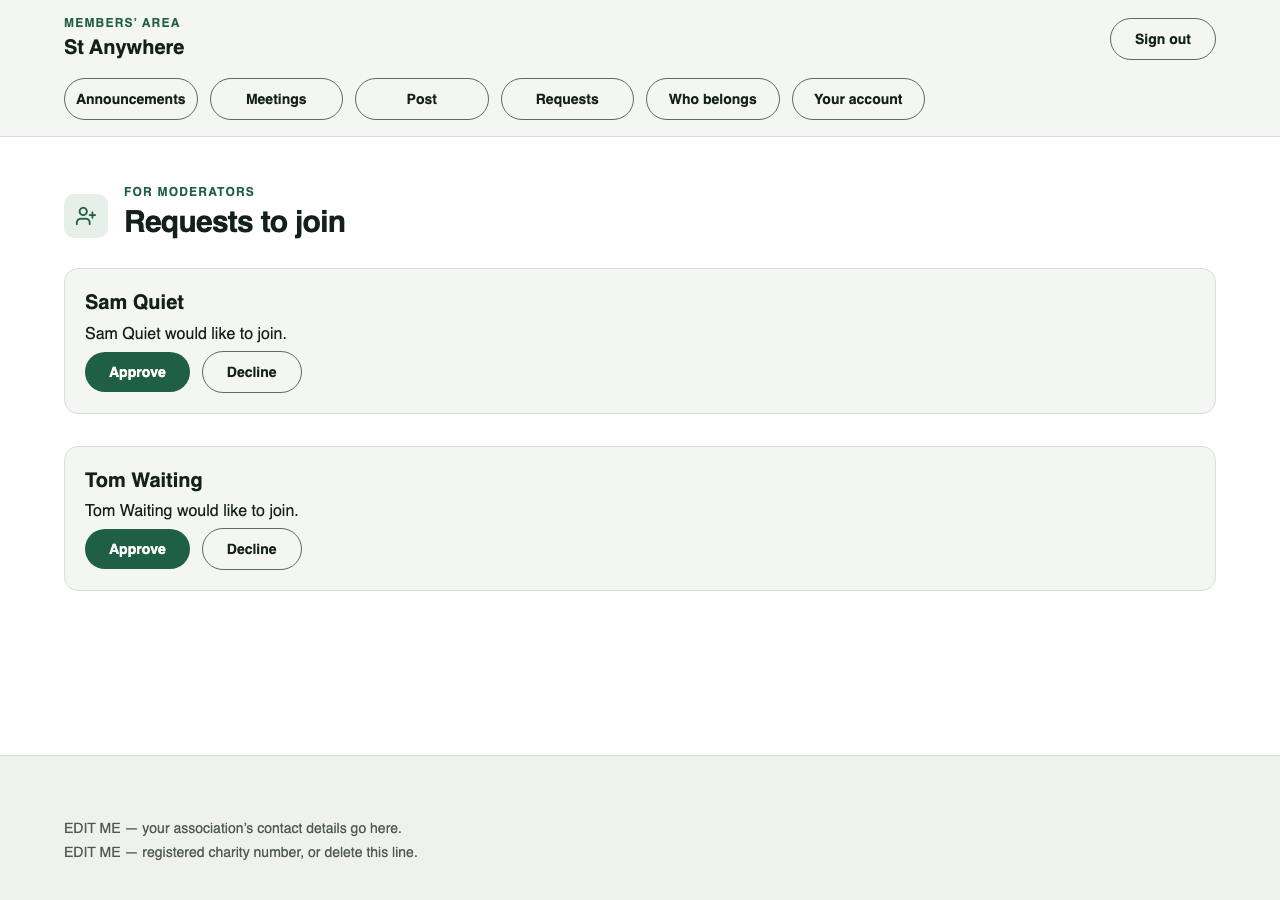
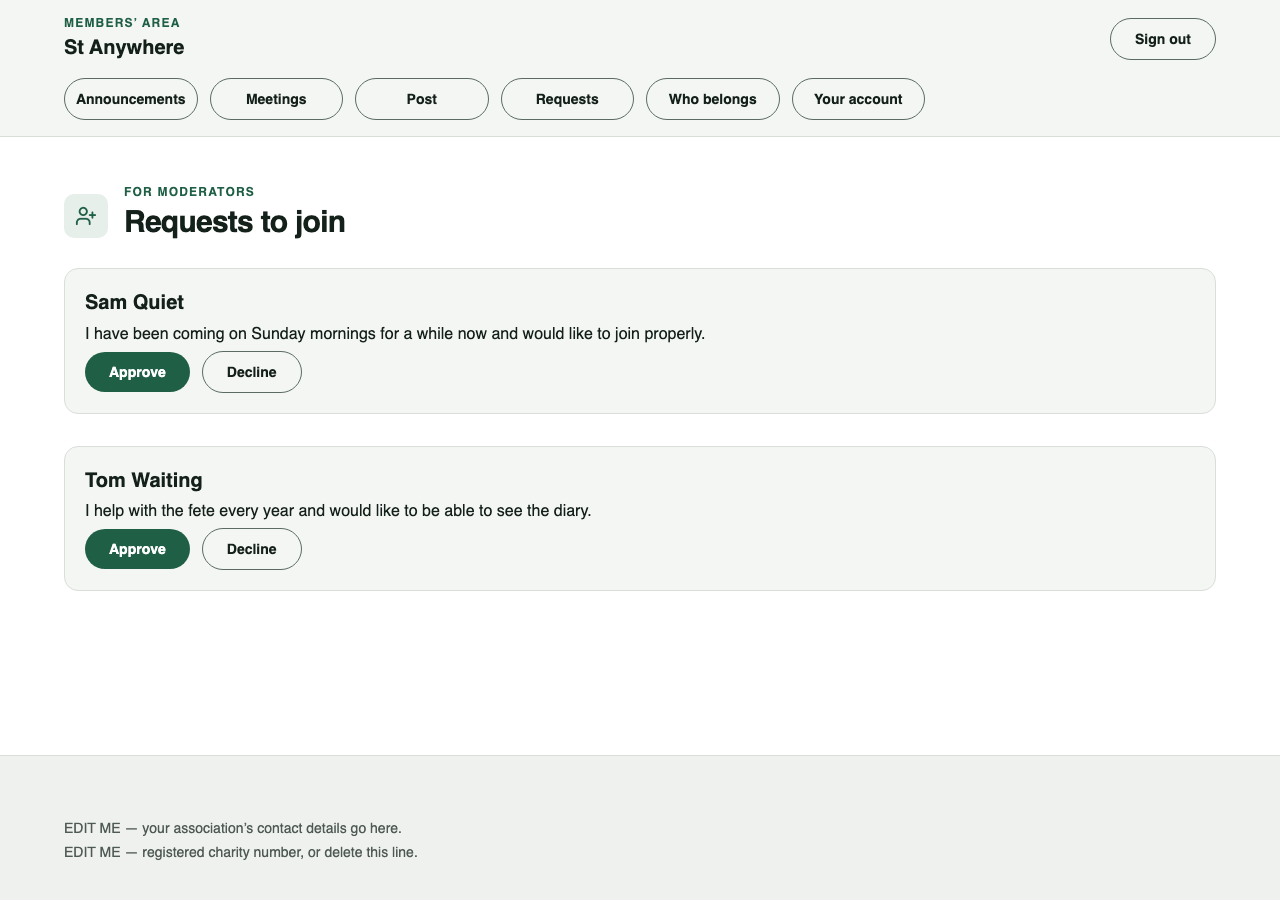
feat(p82): REL-002c s14 — the phone column read, and the defect that was the harness's
Row 6 had three things left on it. Two are now done and the third cannot be
done by a session.

THE PHONE COLUMN. All fifteen phone renders opened (15 covers the 13 pages;
`/` and `/members` are shot in both states). Nothing is broken at 390: the
three caps this row added are correct no-ops below their breakpoints, and
`/directory` folds to one column with s8's `ada@example.invali / d` break gone.
`/join` was graded at all four widths and its apparent finding is a NON-finding
— its footer sits on 1200 while hero and form sit on 720, but `/sign-in` does
the same, so it is consistent across the door pages and is the shape already
ruled acceptable. Priced, so it is not rediscovered a fifth time.

THE ONE REAL FINDING WAS OURS, NOT THE PRODUCT'S. `/requests` rendered the
applicant's name as the card heading and again as their own words, at every
width, because this harness posted `message: `${name} would like to join.``
— inventing the applicant's reason out of their name. `RequestRow` is right to
bind `name` and `message` separately; the whole point of the queue is that a
moderator reads why somebody is asking. `JOINERS` now carries real reasons of
deliberately differing lengths. This is the known seed trap running backwards:
hazard 10 records a seed HIDING a fix, this one MANUFACTURED a defect on a page
that was about to be graded by a person.

CONTROL. The living arm was re-run and diffed against the preserved s13 shots:
[…]

Changed region(s): [[0.0625, 0.3422, 0.5312, 0.4044], [0.0625, 0.56, 0.4688, 0.5911]]

diff --git a/packages/nodegx-backend/tests/vib001-members.look.ts b/packages/nodegx-backend/tests/vib001-members.look.ts
@@ -69,12 +69,30 @@ const MEETINGS = [
   ['Fabric committee', '2099-02-19', 'The hall'],
   ['Annual meeting', '2099-03-30', 'The church']
 ];
+/**
+ * 🔴 **The third column is the REASON THEY TYPED, and it exists because the seed
+ * was manufacturing a defect the product does not have.** Until session 14 this
+ * was a pair and the request was posted with `message: `${name} would like to
+ * join.``, so `/requests` rendered the applicant's name as the heading and then
+ * again as their own words — *"Sam Quiet"* over *"Sam Quiet would like to
+ * join."*. `RequestRow` binds those two texts to `name` and `message`, and it is
+ * right to: the whole point of the queue is that a moderator reads why somebody
+ * is asking. **The duplication was the harness's, at every one of the four
+ * widths, on a page that was about to be graded by a person.**
+ *
+ * ⚠ **A seed can make a page look WORSE than it is, not only better.** The
+ * known trap in this file is the inverse — every `ANNOUNCEMENTS` body is one
+ * short sentence, so no render it takes can show a paragraph wrapping. Both are
+ * the same mistake: **content invented to fill a field, then photographed as if
+ * it came from a person.** The lengths below deliberately differ, so the row is
+ * photographed carrying a real range rather than one tidy line.
+ */
 const JOINERS = [
-  ['Mo Joiner', 'mo@example.invalid'],
-  ['Pat Pending', 'pat@example.invalid'],
-  ['Ada Newcomer', 'ada@example.invalid'],
-  ['Sam Quiet', 'sam@example.invalid'],
-  ['Tom Waiting', 'tom@example.invalid']
+  ['Mo Joiner', 'mo@example.invalid', 'I sing with the choir on Thursdays and should probably be on the list.'],
+  ['Pat Pending', 'pat@example.invalid', 'We moved to the village in the spring and would like to come to the lunch club.'],
+  ['Ada Newcomer', 'ada@example.invalid', 'My neighbour mentioned the churchyard tidy and I would like to help.'],
+  ['Sam Quiet', 'sam@example.invalid', 'I have been coming on Sunday mornings for a while now and would like to join properly.'],
+  ['Tom Waiting', 'tom@example.invalid', 'I help with the fete every year and would like to be able to see the diary.']
 ];
 
 /** The date directory both states share, so one run is one folder. */
@@ -149,12 +167,12 @@ describe('VIB-001 — the members area, as a person meets it', () => {
       email: MODERATOR.email,
       password: MODERATOR.password
     });
-    for (const [name, email] of JOINERS) {
+    for (const [name, email, reason] of JOINERS) {
       await client.post('/functions/requestAccess', {
         name,
         email,
         password: 'pw-' + email,
-        message: `${name} would like to join.`
+        message: reason
       });
     }
     const login = await client.post<{ sessionToken: string }>('/login', {

diff --git a/dev-docs/tasks/phase-82-0.2.2-the-first-row-on-the-shelf/NEXT-SESSION-PROMPT.md b/dev-docs/tasks/phase-82-0.2.2-the-first-row-on-the-shelf/NEXT-SESSION-PROMPT.md
@@ -1,9 +1,10 @@
 # Phase 82 — next session
 
-_Opened 2026-08-31 (s1). Last updated **2026-09-01, session 13**. Row 6 is still open, but it is a
-different shape now: **every one of the thirteen pages has been photographed at last**, two rulings
-that had been queued for Richard are **answered and built**, and what is left on this row is
-**Richard's own look**, not more building. The decisions are
+_Opened 2026-08-31 (s1). Last updated **2026-09-01, session 14**. Row 6 has **no building left on
+it**: every one of the thirteen pages has been photographed and graded at **all four widths**, both
+of s13's queued questions are answered and built, and s14 found that the one apparent defect left in
+the pictures belonged to the **test harness**, not the product. What remains is **Richard's own
+look**. The decisions are
 [`RICHARD-RULINGS-2026-09-01.md`](RICHARD-RULINGS-2026-09-01.md) — **§I is new, read it** — and the
 change list is [`REL-002c-WHAT-I-WOULD-CHANGE.md`](REL-002c-WHAT-I-WOULD-CHANGE.md)._
 
@@ -70,39 +71,41 @@ the page it opens had never been seen together.
 folds to `smallLayout: '1'` with no runtime rule that can hide it. The original symptom — ~250px
 between a name and its email — **was fixed by s10**. Priced, not skipped.
 
-## 🔴 What is LEFT on row 6, in order
+## ✅ SESSION 14 — the phone column is read, and one "defect" turned out to be the harness
 
-### 1. 🔴 THE PHONE COLUMN OF THIS RUN IS UNREAD
+**Full write-up: [`TASKS.md`](TASKS.md) §"what session 14 did".**
 
-**s13 viewed 20 images across 12 of the 13 pages — and every one of them was `preview`, `desktop` or
-`wide`.** So **the `phone` (390×844) shots of the run that carries this session's four fixes have
-not been looked at by anybody.**
+1. ✅ **All fifteen phone renders opened** — 15 covers the 13 pages, since `/` and `/members` are
+   photographed in both states. 🟢 **Nothing is broken at 390.** The three caps this row added are
+   correct no-ops below their breakpoints; `/directory` folds to one column and **s8's
+   `ada@example.invali / d` break is gone**.
+2. ✅ **`/join` graded at all four widths — and its finding was a NON-finding.** Its footer sits on
+   1200 while its hero and form sit on 720, but `/sign-in` does the same, so it is consistent across
+   the four door pages and is the shape Richard already ruled acceptable. **Priced. Do not
+   rediscover it.**
+3. 🔴 **`/requests` was showing the applicant's name twice — and it was the SEED, not the product.**
+   The harness was posting `message: `${name} would like to join.``, inventing the applicant's
+   reason out of their name. `JOINERS` now carries real reasons. **The page a moderator sees was
+   never wrong; the photograph was.**
+4. ✅ **Re-render control: 32 of 36 text dumps byte-identical** to s13's, the 4 that differ being
+   exactly the `/requests` ones. The harness is deterministic and s13's pictures were honest.
 
-⚠ **Stated narrowly on purpose.** Phone renders *have* been read in this row before — s8's
-`ada@example.invali / d` finding at 390px is one — so this is **not** a claim that the width has
-never been graded. It is a claim about **this run**, and it is the same shape as the fault s10
-shipped and s13 was sent to fix, one axis over: the shots exist, so nothing complains, and *"all
-three widths"* reads as satisfied when three of the four were looked at.
+## 🔴 What is LEFT on row 6: only Richard's look
 
-⚠ **It is also where this session's own work is least safe.** `AT_FORM_MEASURE`'s 720 cap and the
-`PROSE` 640 cap are both no-ops above their breakpoints and both bite below; `MEMBER_ROW`'s
-`Columns` folds to `smallLayout: '1'` under 700. **The pictures are already on disk** — no run
-needed. Read them.
-
-### 2. `/join` was not looked at once this session
-
-The only page of the thirteen s13 did not open. It is one of Richard's six, but a Judge pass costs
-nothing — the shots are on disk.
-
-### 3. Then: put it in front of Richard — that is the actual close condition
+**There is no building left on this row that a session can identify.** Both remaining questions from
+s13 are answered, the phone column is read, and every page has been graded at every width.
 
 Per §A2a **Richard personally rules six**: `/` in **both** states, `/setup`, `/join`, `/members`,
-`/directory`. The Judge grades the rest, and **s13 found no SHITTY page**, so nothing escalates.
+`/directory`. The Judge grades the rest, and **no page is SHITTY**, so nothing escalates.
 
 🔴 **A session's WORTHY is provisional until he has seen it** (close protocol #5), and **PASSABLE
-never closes**. s13's post-fix reading is that the eight Judge-graded pages are **provisionally
-WORTHY except `/unsubscribe`**, which is **PASSABLE and ruled to ship that way**. Row 6 cannot be
-closed by a session; it closes when he looks.
+never closes.** The reading to hand him:
+
+- **Provisionally WORTHY:** the twelve pages other than `/unsubscribe`.
+- **PASSABLE, and ruled to ship that way:** `/unsubscribe` — its ~290px/~470px of space is a
+  **recorded consequence** of D39, re-argued four times now. **Do not fix it, do not re-derive it.**
+
+**Row 6 closes when he looks. Ask when that is booked** — and note row 7 waits on the same answer.
 
 ## The run sheet
 
@@ -111,7 +114,7 @@ Take the topmost row that is not ✅.
 | # | row | why here | needs |
 |---|---|---|---|
 | ~~1–5~~ | ~~REL-007/006, REL-005, REL-003, REL-002a, REL-002b~~ | ✅ **CLOSED s1–s5** | — |
-| **6** | **REL-002c — every page as good as the homepage** | s13 photographed all thirteen, fixed 4 pages, closed both open questions | 🟡 **the phone shots, `/join`, then RICHARD'S LOOK** |
+| **6** | **REL-002c — every page as good as the homepage** | s14 read the phone column, graded `/join`, and fixed the seed that was faking a `/requests` defect | 🟡 **RICHARD'S LOOK — nothing else. A session cannot close this row** |
 | 7 | **REL-001** publish + drive the install | shelf's first row; also closes P75's FB-005 | ⏸ **HOLD** — see below |
 | 8 | **REL-004** cut, tag and publish `v0.2.2` | last | 🟡 **AC1 done s11** (`5c805978`). 🔴 Blocked: `cline-dev` unpushed |
 
@@ -164,6 +167,20 @@ the recommendation is unchanged: **fix first, publish once.** Ask when his look 
     `vib001-members.look.ts` is one short sentence, so **no render this harness can take will show a
     paragraph wrapping** — the `PROSE` 640 cap is asserted from `nodes.json`, not from a picture.
     Say which of the two you have when you claim a measure is right.
+
+11. 🔴 **AND A SEED CAN MANUFACTURE A DEFECT THAT IS NOT THERE — the inverse of 10, found in s14.**
+    `/requests` showed the applicant's name as the heading and again as their own words, at all four
+    widths, because the harness posted `message: `${name} would like to join.``. **The product was
+    correct; the photograph was not.** ✅ **Read the seed beside the picture before filing what the
+    picture shows** — this row was one session away from Richard filing a defect against a page that
+    does not have one.
+12. 🔴 **THE LIVING ARM'S `artefactMd5` IS NOT A CONTENT FINGERPRINT, AND THIS BOARD SAYS IT IS.**
+    `bindProjectToBackend` writes an **OS-assigned ephemeral port** into the copied project file
+    before `judge()` hashes it, so **the living md5 changes every run even when nothing changed** —
+    s14 moved it `ed8a32db → e6bea8be` while editing only a test file. **The door arm is sound**
+    (`f969ad96…` equals the template on disk, which is the pin to cite). ⚠ **s13's citation of a
+    living-md5 progression as evidence of its edits is void** — the edits were real, the hash was
+    never the evidence. Registered in [`TASKS.md`](TASKS.md) §4; owner REL-002c.
 
 ## Row 8 — done and blocked parts
 

diff --git a/dev-docs/tasks/phase-82-0.2.2-the-first-row-on-the-shelf/TASKS.md b/dev-docs/tasks/phase-82-0.2.2-the-first-row-on-the-shelf/TASKS.md
@@ -762,6 +762,119 @@ built from — the artefact is pinned by its `md5`, which is the field to cite.
 
 ---
 
+## REL-002c — what session 14 did: the phone column read, and the seed that was inventing a defect
+
+Session 13 left row 6 with three things on it: **the phone shots of its own run, which nobody had
+opened**, `/join`, and then Richard's look. The first two are done. The third still cannot be done
+by a session.
+
+### 1. The phone column — all fifteen renders, and it broke nothing
+
+**15 phone renders cover the 13 pages** (`/` and `/members` are photographed in both states), and
+**every one has now been opened.** Naming the count matters here: s13's fault was that *"all three
+widths"* read as satisfied when 20 images had been viewed and **none of them was `phone`**.
+
+🟢 **Nothing is broken at 390.** The three caps this row added are all no-ops below their
+breakpoints and none of them misfires: `AT_FORM_MEASURE`'s 720 on `/post` and `/account`, and the
+`PROSE` 640 on `/announcements/{id}`. `MEMBER_ROW`'s `Columns` folds to `smallLayout: '1'` under
+700 and `/directory` reads correctly as name → email → `Member · since 1 September 2026`, with
+**s8's `ada@example.invali / d` mid-word break gone.** `/members` keeps its `Read` button beside
+each row rather than folding it under, which is right.
+
+⚠ **`/join` was graded at all four widths, and the finding was a NON-finding.** At 1900 its footer
+sits on the 1200 measure while its hero and form sit on 720 — two left edges. **This is not the
+`/post` defect s13 fixed.** `/sign-in` does exactly the same thing, so it is consistent across the
+four door pages, and it is the same shape as the arrangement Richard ruled acceptable on 09-01
+(*"head on 1200, form panels capped at 720"*) with the roles swapped. **Priced and left alone** —
+recorded here precisely so it is not rediscovered a fifth time.
+
+### 2. 🔴 The `/requests` defect was the HARNESS's, not the product's — a seed can make a page look WORSE than it is
+
+`/requests` rendered the applicant's name as the card heading and then again as their own words:
+**“Sam Quiet” over “Sam Quiet would like to join.”**, at every one of the four widths.
+
+`RequestRow` is not at fault, and it is right not to be: it binds those two texts to `name` and
+`message`, and the entire point of the queue is that a moderator reads **why** somebody is asking.
+The duplication came from this line in `vib001-members.look.ts`:
+
+```ts
+message: `${name} would like to join.`
+```
+
+**The seed was inventing the applicant's reason out of the applicant's name.** No real install can
+produce that screen — a real joiner types a real sentence into `/join`'s *"Why you'd like to join"*
+box. `JOINERS` now carries a third column, the reason, with **deliberately differing lengths** so
+the card is photographed carrying a real range.
+
+🔴 **This is the known seed trap running the other way.** Hazard 10 in the handoff records that
+every `ANNOUNCEMENTS` body is one short sentence, so no render this harness takes can show a
+paragraph wrapping — a seed hiding a fix. This one **manufactured a defect on a page that was about
+to be graded by a person.** Both are the same mistake: **content invented to fill a field, then
+photographed as if it came from somebody.** ✅ **Read the seed beside the picture before filing what
+the picture shows.**
+
+### 3. The re-render reproduced 32 of 36 text dumps byte-for-byte
+
+The living arm was re-run and diffed against session 13's shots, which were preserved first.
+**Exactly the four `/requests` dumps differ; the other 32 are byte-identical.** That is the control:
+it bounds the change to the page that was meant to change, **and** it independently shows the
+harness is deterministic and s13's pictures were honest.
+
+### 4. 🔴 REGISTERED, not built: the living arm's `artefactMd5` is NOT a content fingerprint
+
+**This board states in writing that *"the artefact is pinned by its `md5`, which is the field to
+cite"*. That is true of the door arm and FALSE of the living one.**
+
+`bindProjectToBackend` writes `endpoint: http://127.0.0.1:${port}` into the copied project file
+**before** `judge()` hashes it, and the service is started on `port: 0` — an OS-assigned ephemeral
+port. **So the living `artefactMd5` changes on every run whether or not one byte of the template
+changed.** This session's re-render moved it `ed8a32db → e6bea8be` while editing **nothing but a
+test file**, which is how it was caught.
+
+⚠ **Session 13's own citation inherits this.** It reads the progression *"`5474db3b` (detail pages)
+→ `ed8a32db` (the ruled `/post` + `/account` fix)"* as if the hashes tracked those edits. They would
+have differed anyway. The edits were real — the pictures show them — but **the hash was never the
+evidence.**
+
+✅ **The door arm is sound and was used as this session's real pin:** its `artefactMd5`
+`f969ad96…` matches `templates/members-area/nodegx.project.json` on disk **exactly**, which is what
+establishes that the door pictures are of the shipped bytes.
+
+**Owner: REL-002c, before the living arm's md5 is cited again.** The fix is to record a hash taken
+**before** binding, or of the shipped template file as the door arm already does. Not built here:
+it would need a further re-render to produce a manifest carrying the new field, and it blocks no
+acceptance criterion.
+
+### 5. ⚠ REGISTERED: the announcement list does not clamp its body, so the seed cannot be lengthened freely
+
+Hazard 10's obvious repair — give an announcement a body long enough to photograph the `PROSE` 640
+measure — is **not free**, and the reason is a product fact worth having written down.
+`AnnouncementRow` has **no `maxLines`, `textOverflow`, `clamp` or `ellipsis`**, and `/members`
+renders each body in full as its summary. The detail page shoots `firstAnnouncementId`, which is
+**also the top row of that list**, so lengthening it to test the measure would bloat the first row
+of the page every member lands on.
+
+**That is a product question — should a list summary clamp? — not a seed question.** Owner: `NONE`.
+Until it is answered, hazard 10 stands as written: **say whether a measure is asserted from
+`nodes.json` or shown in a picture.**
+
+### The readings, with their exit statuses
+
+Gated on an **exit file the command wrote itself**, per this row's hazard 9.
+
+| gate | reading |
+|---|---|
+| `vib001-members.look.ts` (living arm) | **`EXIT=0`** — `Test Suites: 1 passed`, `Tests: 1 skipped, 1 passed`. The door arm was deliberately filtered out with `-t`: it seeds nothing, so a seed change cannot reach it. **36 shots, 72 PNGs on disk** — reconciled against the manifest, not assumed |
+| seeding assertion | `SEEDED {"Announcement":6,"Meeting":4,"MemberRequest":2,"Member":4}` — two left on the queue, three approved plus the moderator |
+| determinism control | **32 of 36 text dumps byte-identical** to session 13's; the 4 that differ are exactly `requests-{preview,desktop,wide,phone}` |
+| door arm `artefactMd5` | `f969ad96…`, **equal to `templates/members-area/nodegx.project.json` on disk** |
+
+⚠ **A peer's jest suite was running when this session started** (phase 77's `sb007`/`sbr009`/
+`sbr012`). The re-render was **queued behind it** rather than run alongside — two package suites at
+once produce flakes that read as yours. It had finished by the time the wait loop polled.
+
+---
+
 ### REL-003 — The stale bundles the cut inherits
 
 Phase 80 closed several fixes whose effect a user cannot see, because the committed build output
